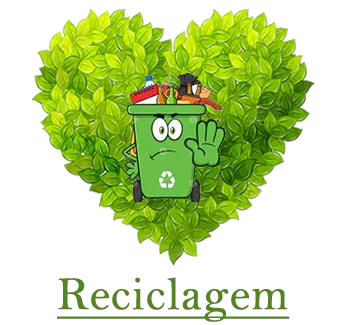
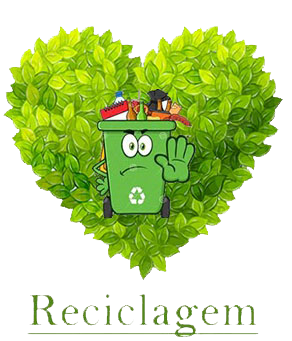
Alteração nas imagens e correção do bug do menu

diff --git a/Site/cadastro.html b/Site/cadastro.html
@@ -14,61 +14,71 @@
 
 <body>
     <div class="container">
-    <form method="POST" action="cadastro2.php" enctype="multipart/form-data">
-        <nav class="navbar navbar-expand-lg navbar-light bg-light ">
-            <a class="navbar-brand" href="#"><img src="./imagens/logo.png" alt="" width=""></a>
-            <button class="navbar-toggler" type="button" data-toggle="collapse" data-target="#navbarNav"
-                aria-controls="navbarNav" aria-expanded="false" aria-label="Alterna navegação">
-                <span class="navbar-toggler-icon"></span>
-            </button>
-            <div class="collapse navbar-collapse" id="navbarNav">
-                <ul class="navbar-nav">
-                    <li class="nav-item active">
-                        <a class="nav-link" href="index.html">Home <span class="sr-only">(Página atual)</span></a>
-                    </li>
-                    <li class="nav-item">
-                        <a class="nav-link" href="dicas.html">Dicas Sustentáveis</a>
-                    </li>
-                    <li class="nav-item">
-                        <a class="nav-link" href="noticias.html">Noticias</a>
-                    </li>
-                    <li class="nav-item">
-                        <a class="nav-link" href="cadastro.html">Cadastre-se</a>
-                    </li>
-                </ul>
-            </div>
-        </nav>
-        <div class="container marcador2">
+        <form method="POST" action="cadastro2.php" enctype="multipart/form-data">
             <div class="row">
+                <div class="col-sm">
+                    <nav class="navbar navbar-expand-lg navbar-light bg-light">
+                        <a class="navbar-left d-flex logo" href="index.html">
+                            <img src="./imagens/logo.png" alt="" width="70%">
+                        </a>
+                        <button class="navbar-toggler" type="button" data-toggle="collapse"
+                            data-target="#navbarSupportedContent" aria-controls="navbarSupportedContent"
+                            aria-expanded="false" aria-label="Toggle navigation">
+                            <span class="navbar-toggler-icon"></span>
+                        </button>
 
-                <div class="col-xs-6 col-sm-8 col-md-8 col-lg-8 marcador">
-                    <h2>Cadastre-se para receber noticias da cidade</h2>
-
-                    <form>
-                        <div class="form-group lbl">
-                            <label for="exampleInputEmail1">Nome</label>
-                            <input type="text" class="form-control" name="nome" placeholder="Nome">
-
+                        <div class="collapse navbar-collapse" id="navbarSupportedContent">
+                            <ul class="navbar-nav mr-auto">
+                                <li class="nav-item active">
+                                    <a class="nav-link" href="index.html">Home <span
+                                            class="sr-only">(current)</span></a>
+                                </li>
+                                <li class="nav-item">
+                                    <a class="nav-link" href="dicas.html">Dicas Sustentáveis</a>
+                                </li>
+                                <li class="nav-item">
+                                    <a class="nav-link" href="noticias.html">Notícias</a>
+                                </li>
+                                <li class="nav-item">
+                                    <a class="nav-link" href="cadastro.html">Cadastre-se</a>
+                                </li>
+                            </ul>
                         </div>
-                        <div class="form-group lbl">
-                            <label for="exampleInputPassword1">E-mail</label>
-                            <input type="email" class="form-control" name="email" placeholder="E-mail">
-                        </div>
-                        <button type="submit" class="btn btn-primary botao">Cadastrar</button>
-                    </form>
+                    </nav>
+                </div>
+            </div>
+
+            <div class="container marcador2">
+                <div class="row">
+
+                    <div class="col-xs-6 col-sm-8 col-md-8 col-lg-8 marcador">
+                        <h2>Cadastre-se para receber noticias da cidade</h2>
+
+                        <form>
+                            <div class="form-group lbl">
+                                <label for="exampleInputEmail1">Nome</label>
+                                <input type="text" class="form-control" name="nome" placeholder="Nome">
+
+                            </div>
+                            <div class="form-group lbl">
+                                <label for="exampleInputPassword1">E-mail</label>
+                                <input type="email" class="form-control" name="email" placeholder="E-mail">
+                            </div>
+                            <button type="submit" class="btn btn-primary botao">Cadastrar</button>
+                        </form>
                     </div>
                 </div>
-                    <!-- JavaScript (Opcional) -->
-                    <!-- jQuery primeiro, depois Popper.js, depois Bootstrap JS -->
-                    <script src="https://code.jquery.com/jquery-3.3.1.slim.min.js"
-                        integrity="sha384-q8i/X+965DzO0rT7abK41JStQIAqVgRVzpbzo5smXKp4YfRvH+8abtTE1Pi6jizo"
-                        crossorigin="anonymous"></script>
-                    <script src="https://cdnjs.cloudflare.com/ajax/libs/popper.js/1.14.3/umd/popper.min.js"
-                        integrity="sha384-ZMP7rVo3mIykV+2+9J3UJ46jBk0WLaUAdn689aCwoqbBJiSnjAK/l8WvCWPIPm49"
-                        crossorigin="anonymous"></script>
-                    <script src="https://stackpath.bootstrapcdn.com/bootstrap/4.1.3/js/bootstrap.min.js"
-                        integrity="sha384-ChfqqxuZUCnJSK3+MXmPNIyE6ZbWh2IMqE241rYiqJxyMiZ6OW/JmZQ5stwEULTy"
-                        crossorigin="anonymous"></script>
+                <!-- JavaScript (Opcional) -->
+                <!-- jQuery primeiro, depois Popper.js, depois Bootstrap JS -->
+                <script src="https://code.jquery.com/jquery-3.3.1.slim.min.js"
+                    integrity="sha384-q8i/X+965DzO0rT7abK41JStQIAqVgRVzpbzo5smXKp4YfRvH+8abtTE1Pi6jizo"
+                    crossorigin="anonymous"></script>
+                <script src="https://cdnjs.cloudflare.com/ajax/libs/popper.js/1.14.3/umd/popper.min.js"
+                    integrity="sha384-ZMP7rVo3mIykV+2+9J3UJ46jBk0WLaUAdn689aCwoqbBJiSnjAK/l8WvCWPIPm49"
+                    crossorigin="anonymous"></script>
+                <script src="https://stackpath.bootstrapcdn.com/bootstrap/4.1.3/js/bootstrap.min.js"
+                    integrity="sha384-ChfqqxuZUCnJSK3+MXmPNIyE6ZbWh2IMqE241rYiqJxyMiZ6OW/JmZQ5stwEULTy"
+                    crossorigin="anonymous"></script>
 </body>
 
 </html>

diff --git a/Site/index.html b/Site/index.html
@@ -9,7 +9,7 @@
   <link rel="stylesheet" href="https://stackpath.bootstrapcdn.com/bootstrap/4.1.3/css/bootstrap.min.css"
     integrity="sha384-MCw98/SFnGE8fJT3GXwEOngsV7Zt27NXFoaoApmYm81iuXoPkFOJwJ8ERdknLPMO" crossorigin="anonymous">
   <link rel="stylesheet" href="https://maxcdn.bootstrapcdn.com/bootstrap/3.4.0/css/bootstrap.min.css">
-   <link rel="stylesheet" href="css/estilo.css">
+  <link rel="stylesheet" href="css/estilo.css">
 </head>
 
 <body>
@@ -17,14 +17,13 @@
     <div class="row">
       <div class="col-sm">
         <nav class="navbar navbar-expand-lg navbar-light bg-light">
-          <a class="navbar-brand d-flex logo" href="index.html">
-            <img src="./imagens/logo.png" alt="" style="width: 50%;">
+          <a class="navbar-left d-flex logo" href="index.html">
+            <img class="img-responsive" src="./imagens/logo.png" alt="" width="70%">
           </a>
           <button class="navbar-toggler" type="button" data-toggle="collapse" data-target="#navbarSupportedContent"
             aria-controls="navbarSupportedContent" aria-expanded="false" aria-label="Toggle navigation">
             <span class="navbar-toggler-icon"></span>
           </button>
-
           <div class="collapse navbar-collapse" id="navbarSupportedContent">
             <ul class="navbar-nav mr-auto">
               <li class="nav-item active">
@@ -43,7 +42,6 @@
           </div>
         </nav>
       </div>
-      </nav>
       <div id="carouselExampleControls" class="carousel slide" data-ride="carousel">
         <div class="carousel-inner">
           <div class="carousel-item active">

diff --git a/Site/dicas.html b/Site/dicas.html
@@ -17,12 +17,15 @@
         <div class="row">
             <div class="col-sm">
                 <nav class="navbar navbar-expand-lg navbar-light bg-light">
-                    <a class="navbar-brand logo" href="#"><img src="./imagens/logo.png" alt="" width=""></a>
+                    <a class="navbar-left d-flex logo" href="index.html">
+                        <img src="./imagens/logo.png" alt="" style="width: 70%;">
+                    </a>
                     <button class="navbar-toggler" type="button" data-toggle="collapse"
                         data-target="#navbarSupportedContent" aria-controls="navbarSupportedContent"
                         aria-expanded="false" aria-label="Toggle navigation">
                         <span class="navbar-toggler-icon"></span>
                     </button>
+
                     <div class="collapse navbar-collapse" id="navbarSupportedContent">
                         <ul class="navbar-nav mr-auto">
                             <li class="nav-item active">

diff --git a/Site/css/estilo.css b/Site/css/estilo.css
@@ -35,5 +35,5 @@ body{
 }
 
 .logo{
-    padding: 0;
+   padding: 0;
 }
